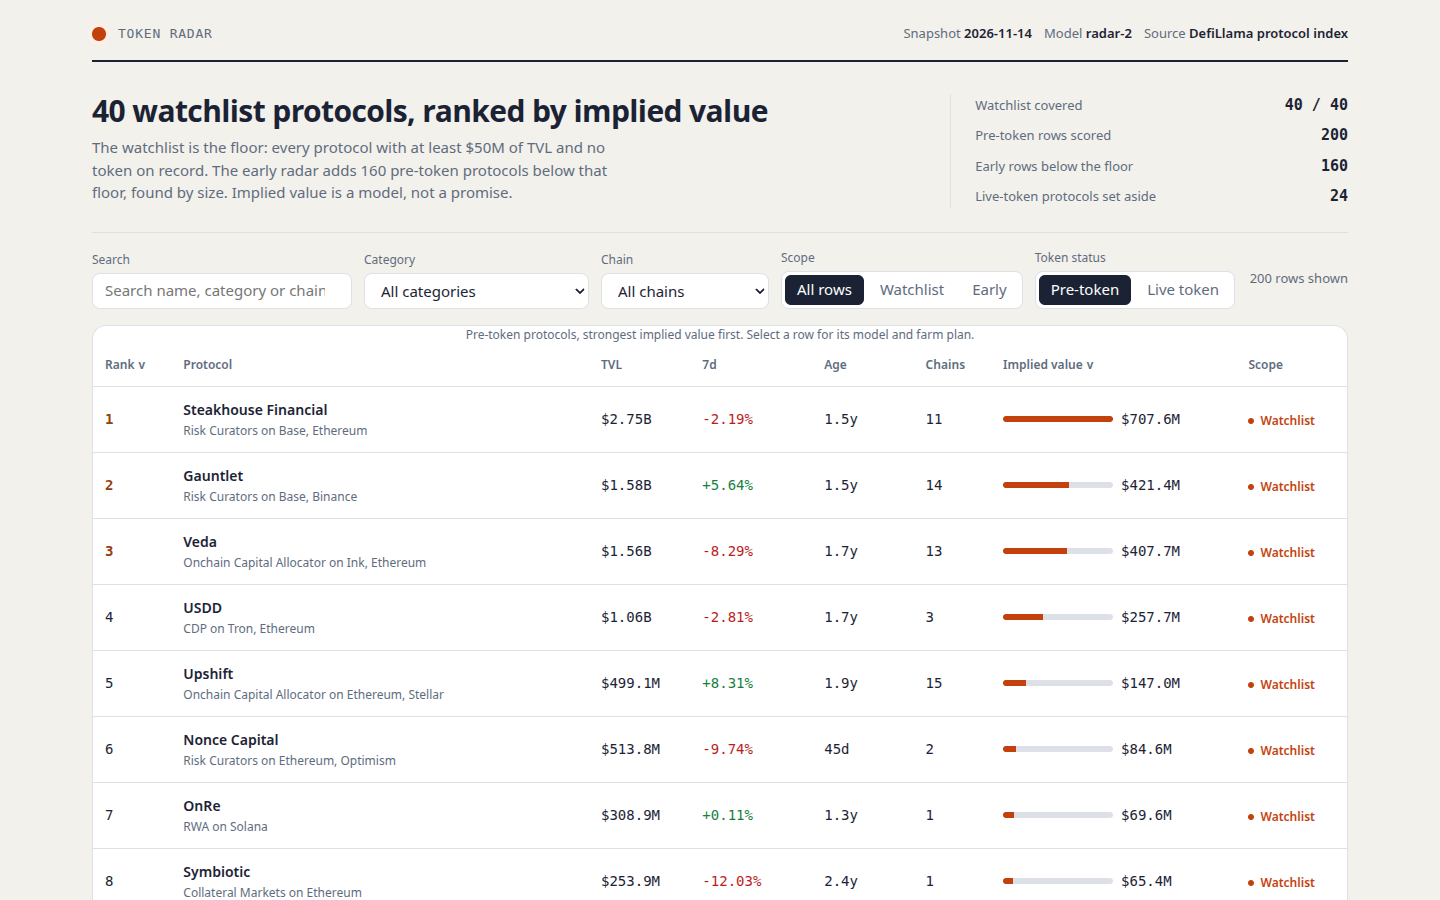
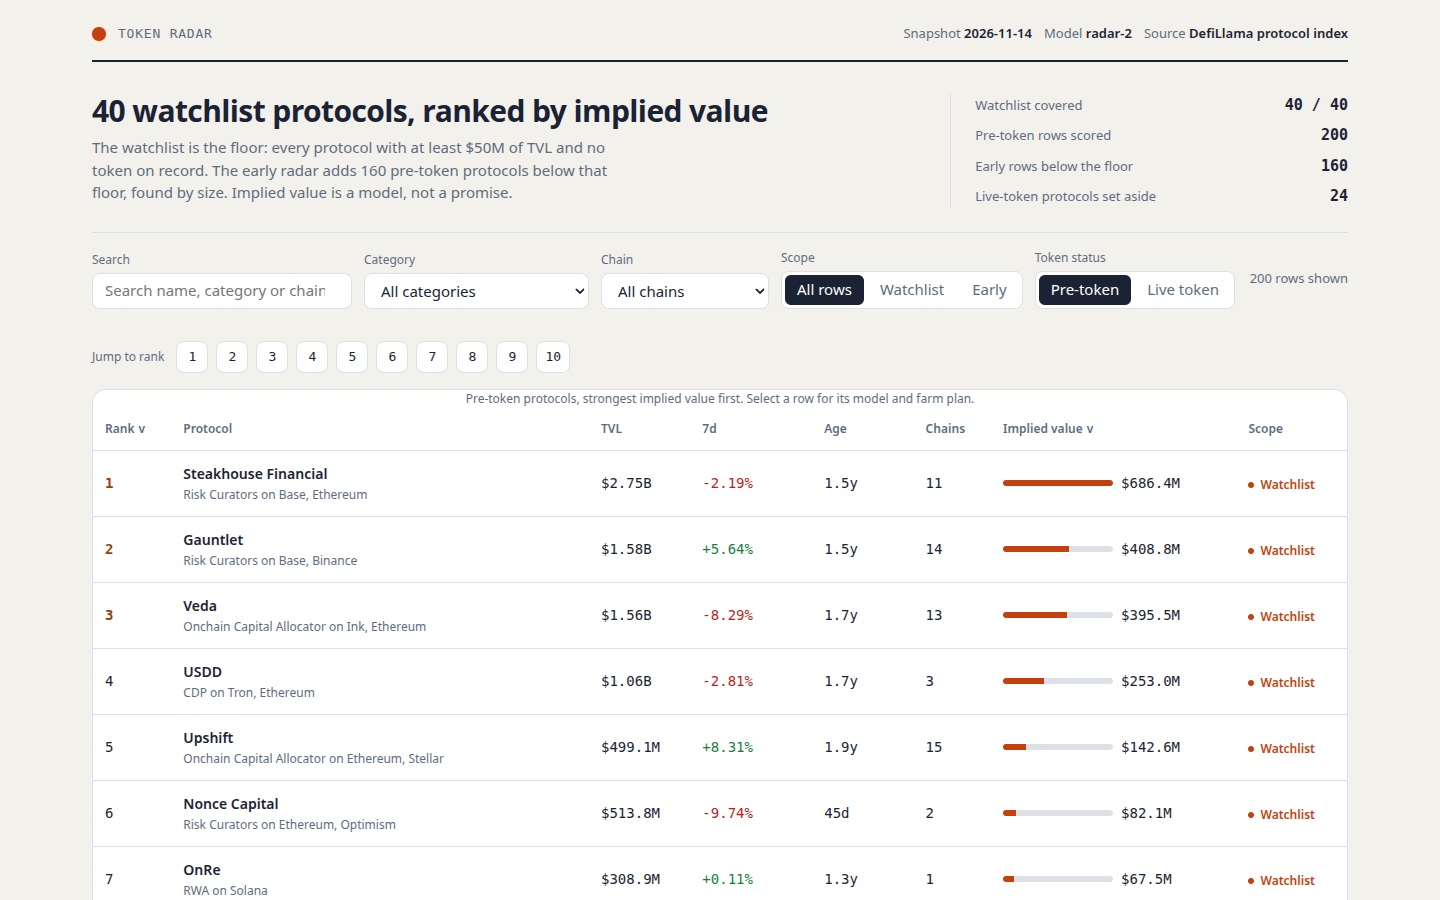
token-radar-01: clean-session rewrite (radar-2 + category concentration, Top-10 jump)
- lib/model.ts: rewritten; adds a category-concentration factor (0.97-1.00,
  0.3% per extra protocol sharing a category, capped at 10) counted over the
  board as chosen; carried as concentration_multiplier in board and data.js
- dashboard/app.js: rewritten; Top-10 quick-jump (buttons 1-10 scroll to and
  flash that rank, clearing filters when the rank is hidden); page recompute
  now includes the concentration factor so detail agrees with board.json
- dashboard/app.css: rewritten; Top-10 jump + row flash styles, same palette
- dashboard/index.html: rewritten; adds the #top10 container app.js uses
- main.ts: rewritten, functionally identical, plus a determinism note
- vendor/makefun-board.ts: rewritten byte-identical (sha256 unchanged)
- screenshots retaken at 1440x900 (board, detail, filtered)

diff --git a/dashboard/app.js b/dashboard/app.js
@@ -31,14 +31,16 @@
 
   // The model in one function: the page recomputes a row from the snapshot figures and
   // checks the number board.json carries, so the page's code and the board's data are
-  // visibly the same arithmetic.
+  // visibly the same arithmetic. The concentration factor rides on the row: the board
+  // counts each category's crowd before it scores, and the page reads that factor back.
   function impliedOf(row, model) {
     var growth = Math.min(model.growth_cap, Math.max(model.growth_floor, row.change_7d === null || row.change_7d === undefined ? 0 : row.change_7d));
     var growthMult = 1 + (growth / 100) * model.growth_weight;
     var age = row.age_days === null || row.age_days === undefined ? model.unknown_age_days : row.age_days;
     var maturity = model.maturity_floor + (Math.min(Math.max(age, 0), model.maturity_days) / model.maturity_days) * model.maturity_range;
     var breadth = 1 + Math.min(Math.max((row.chains || []).length - 1, 0), model.breadth_cap_chains) * model.breadth_per_chain;
-    return Math.max(1, Math.round(row.tvl_usd * model.base_multiple * growthMult * maturity * breadth));
+    var concentration = row.concentration_multiplier === null || row.concentration_multiplier === undefined ? 1 : row.concentration_multiplier;
+    return Math.max(1, Math.round(row.tvl_usd * model.base_multiple * growthMult * maturity * breadth * concentration));
   }
 
   function el(tag, attrs) {
@@ -183,6 +185,41 @@
     });
   }
 
+  // The Top-10 quick jump: one button per board rank, 1 to 10. A jump scrolls that
+  // rank's row into view and flashes it, so the reader can reach the head of the board
+  // from anywhere on the page. When the rank is filtered out of the current view, the
+  // jump clears the filters and the sort first, so the row is there to land on.
+  function jumpToRank(rank) {
+    var found = DATA.rows.filter(function (r) { return r.rank === rank; })[0];
+    if (!found) return;
+    var visible = sortedRows(rows()).some(function (r) { return r.rank === rank; });
+    if (!visible) {
+      state.q = ''; state.category = 'all'; state.chain = 'all'; state.scope = 'all';
+      state.sort = 'implied'; state.dir = -1;
+      writeHash();
+      render();
+    }
+    var tr = document.getElementById('row-' + rank);
+    if (!tr) return;
+    tr.scrollIntoView({ block: 'center' });
+    tr.classList.add('flash');
+    setTimeout(function () { tr.classList.remove('flash'); }, 1600);
+  }
+  function top10Nav(existing) {
+    var nav = existing;
+    if (!nav) nav = el('nav', { id: 'top10', class: 'top10', 'aria-label': 'Jump to a top rank' });
+    nav.className = 'top10';
+    nav.setAttribute('aria-label', 'Jump to a top rank');
+    nav.textContent = '';
+    nav.appendChild(el('span', { class: 'top10-label', text: 'Jump to rank' }));
+    for (var n = 1; n <= 10; n++) {
+      (function (rank) {
+        nav.appendChild(el('button', { type: 'button', class: 'top10-btn', text: String(rank), 'aria-label': 'Jump to rank ' + rank, onclick: function () { jumpToRank(rank); } }));
+      })(n);
+    }
+    return nav;
+  }
+
   function header() {
     return el('header', { class: 'top' },
       el('div', { class: 'brand' }, el('span', { class: 'mark' }), el('span', { class: 'brand-name', text: 'Token Radar' })),
@@ -265,6 +302,7 @@
       var growthClass = r.change_7d === null ? '' : r.change_7d >= 0 ? 'pos' : 'neg';
       var rankClass = r.rank <= 3 ? 'num rank-top' : 'num';
       var tr = el('tr', {
+        id: 'row-' + r.rank,
         'data-selected': state.selected === r.slug ? 'true' : 'false',
         tabindex: '0',
         onclick: function () { openDetail(r.slug); },
@@ -315,7 +353,6 @@
         el('td', null, el('div', { class: 'name' }, el('b', { text: r.name }), el('span', { class: 'sub', text: (r.category || 'Other') + ' on ' + (r.chains && r.chains.length ? r.chains.slice(0, 2).join(', ') : 'an unnamed chain') }))),
         el('td', { class: 'num', text: fmtUsd(r.tvl_usd) }),
         el('td', { class: 'num ' + (r.change_7d !== null && r.change_7d >= 0 ? 'pos' : 'neg'), text: fmtPct(r.change_7d) }),
-        el('td', { class: 'num', text: fmtUsd(r.mcap_usd) }),
         el('td', null, el('span', { class: 'badge live', text: 'Already trades' }))
       ));
     });
@@ -336,13 +373,14 @@
       el('h2', { text: 'How implied value is computed' }),
       el('p', { class: 'sub', text: 'Every row is scored by one function of the snapshot figures. No protocol name is special-cased, and no row is hand-picked.' }),
       el('div', { class: 'formula' },
-        'implied = round( tvl_usd x ' + m.base_multiple + ' x (1 + clamp(change_7d, ' + m.growth_floor + ', ' + m.growth_cap + ') / 100 x ' + m.growth_weight + ') x (' + m.maturity_floor + ' + min(age_days, ' + m.maturity_days + ') / ' + m.maturity_days + ' x ' + m.maturity_range + ') x (1 + min(chains - 1, ' + m.breadth_cap_chains + ') x ' + m.breadth_per_chain + ') )'
+        'implied = round( tvl_usd x ' + m.base_multiple + ' x (1 + clamp(change_7d, ' + m.growth_floor + ', ' + m.growth_cap + ') / 100 x ' + m.growth_weight + ') x (' + m.maturity_floor + ' + min(age_days, ' + m.maturity_days + ') / ' + m.maturity_days + ' x ' + m.maturity_range + ') x (1 + min(chains - 1, ' + m.breadth_cap_chains + ') x ' + m.breadth_per_chain + ') x concentration )'
       ),
       el('dl', null,
         el('div', null, el('dt', { text: 'Size (TVL)' }), el('dd', { text: 'The protocol’s locked value today, times ' + m.base_multiple + '. A bigger protocol is worth more at the same growth and age.' })),
         el('div', null, el('dt', { text: 'Direction (7-day growth)' }), el('dd', { text: 'TVL change over seven days, clamped to ' + m.growth_floor + '% .. +' + m.growth_cap + '%, weighted ' + m.growth_weight + '. A collapsing protocol scores below one holding steady.' })),
         el('div', null, el('dt', { text: 'Patience (age with no token)' }), el('dd', { text: 'Days since first listing, capped at ' + m.maturity_days + ' days. Older protocols have waited longer for a launch; an unlisted age uses ' + m.unknown_age_days + ' days.' })),
-        el('div', null, el('dt', { text: 'Reach (chain breadth)' }), el('dd', { text: 'One chain more than the first adds ' + (m.breadth_per_chain * 100) + '% of value, up to ' + m.breadth_cap_chains + ' extra chains. Wider distribution is worth a little more at the same TVL.' }))
+        el('div', null, el('dt', { text: 'Reach (chain breadth)' }), el('dd', { text: 'One chain more than the first adds ' + (m.breadth_per_chain * 100) + '% of value, up to ' + m.breadth_cap_chains + ' extra chains. Wider distribution is worth a little more at the same TVL.' })),
+        el('div', null, el('dt', { text: 'Crowding (category concentration)' }), el('dd', { text: 'A protocol in a crowded category scores a little lower: each extra protocol sharing its category costs ' + (m.concentration_per_extra * 100) + '% of value, up to ' + m.concentration_cap_extra + ' extra, so the factor runs 0.97 to 1.00. A lone category keeps its full value; a protocol with no category is not crowded.' }))
       ),
       el('p', { class: 'sub', text: 'The early radar is every pre-token protocol below the watchlist floor, by TVL, and the live-token protocols are set aside with their market caps shown.' })
     );
@@ -391,6 +429,7 @@
         el('div', null, el('span', { text: 'Growth multiplier' }), el('b', { class: 'num', text: String(row.growth_multiplier) })),
         el('div', null, el('span', { text: 'Maturity multiplier' }), el('b', { class: 'num', text: String(row.maturity_multiplier) })),
         el('div', null, el('span', { text: 'Breadth multiplier' }), el('b', { class: 'num', text: String(row.breadth_multiplier) })),
+        el('div', null, el('span', { text: 'Concentration multiplier' }), el('b', { class: 'num', text: String(row.concentration_multiplier) })),
         el('div', { class: 'total' }, el('span', { text: 'Implied value' }), el('b', { class: 'num', text: fmtUsd(row.implied_value_usd) }))
       ),
       el('p', { class: 'sub', text: 'Model ' + DATA.model_version + ': the same function scores every protocol. The page recomputes this row as ' + fmtUsd(recomputed) + (recomputed === row.implied_value_usd ? ', the same number board.json carries.' : ', which differs from the board: the data would be stale.') + ' This is an estimate, not a price.' })
@@ -409,12 +448,15 @@
   }
 
   function render() {
+    var top10 = document.getElementById('top10');
     app.textContent = '';
     var shell = el('div', { class: 'shell' });
     shell.appendChild(header());
     shell.appendChild(lede());
     shell.appendChild(controls());
-    shell.appendChild(state.tab === 'pre-token' ? boardTable() : liveTable());
+    var table = state.tab === 'pre-token' ? boardTable() : liveTable();
+    if (state.tab === 'pre-token') shell.appendChild(top10Nav(top10));
+    shell.appendChild(table);
     if (state.tab === 'pre-token') shell.appendChild(modelPanel());
     shell.appendChild(footer());
     app.appendChild(shell);

diff --git a/lib/model.ts b/lib/model.ts
@@ -18,14 +18,20 @@
 //   breadth   = 1 + BREADTH_PER_CHAIN x min(max(chains - 1, 0), BREADTH_CAP_CHAINS)
 //               (how many chains carry its TVL: a protocol live on more chains has a
 //               wider distribution, worth a little more at the same TVL)
-//   implied   = max(1, round(base x growthMul x maturity x breadth))
+//   concentration = 1 - CONCENTRATION_PER_EXTRA x min(max(categoryCount - 1, 0), CONCENTRATION_CAP_EXTRA)
+//               (how crowded its category is on this board: a protocol in a category
+//               ten or more protocols share scores 0.97, a lone category 1.00; a
+//               protocol with no category is not crowded, so it scores 1.00)
+//   implied   = max(1, round(base x growthMul x maturity x breadth x concentration))
 //
-// Why these four signals: TVL is the protocol's size today; seven-day growth is its
+// Why these five signals: TVL is the protocol's size today; seven-day growth is its
 // direction; age with no token is how long the market has waited for a launch; chain
-// breadth is how widely its liquidity is spread. A fast-growing young protocol on one
-// chain scores below a slower, older, multi-chain one at the same TVL, and a protocol
-// whose TVL is collapsing scores below one holding steady — the ranking follows the
-// figures, not a list of names.
+// breadth is how widely its liquidity is spread; category concentration is how much
+// company it keeps — a crowded category means a launch, if it comes, shares its
+// attention with many lookalikes. A fast-growing young protocol on one chain scores
+// below a slower, older, multi-chain one at the same TVL, and a protocol whose TVL is
+// collapsing scores below one holding steady — the ranking follows the figures, not a
+// list of names.
 
 /** The snapshot's protocol entry: exactly the ten fields the sealed input carries. */
 export interface SnapshotProtocol {
@@ -62,6 +68,8 @@ export interface ModelConstants {
   unknown_age_days: number;
   breadth_per_chain: number;
   breadth_cap_chains: number;
+  concentration_per_extra: number;
+  concentration_cap_extra: number;
 }
 
 export const MODEL: ModelConstants = {
@@ -75,6 +83,9 @@ export const MODEL: ModelConstants = {
   unknown_age_days: 365,
   breadth_per_chain: 0.015,
   breadth_cap_chains: 8,
+  // 0.3% per extra protocol sharing the category, capped at 10 extras: the factor runs 0.97 to 1.00.
+  concentration_per_extra: 0.003,
+  concentration_cap_extra: 10,
 };
 
 /** The model's version label: the dashboard names it. */
@@ -115,6 +126,7 @@ export interface BoardRow {
     growth_multiplier: number;
     maturity_multiplier: number;
     breadth_multiplier: number;
+    concentration_multiplier: number;
     age_days: number | null;
   };
   farm_steps: string[];
@@ -136,6 +148,7 @@ export interface RadarRow {
   growth_multiplier: number;
   maturity_multiplier: number;
   breadth_multiplier: number;
+  concentration_multiplier: number;
   on_watchlist: boolean;
 }
 
@@ -194,7 +207,8 @@ export function impliedValue(
   protocol: SnapshotProtocol,
   asOf: string,
   model: ModelConstants,
-): { implied: number; growthPct: number; growthMult: number; maturityMult: number; breadthMult: number; age: number | null } {
+  concentrationMult = 1,
+): { implied: number; growthPct: number; growthMult: number; maturityMult: number; breadthMult: number; concentrationMult: number; age: number | null } {
   const age = ageDays(asOf, protocol.listed_at);
   const rawGrowth = finite(protocol.change_7d, 0);
   const growthPct = Math.min(model.growth_cap, Math.max(model.growth_floor, rawGrowth));
@@ -205,8 +219,8 @@ export function impliedValue(
   const extraChains = Math.min(Math.max(protocol.chains.length - 1, 0), model.breadth_cap_chains);
   const breadthMult = 1 + extraChains * model.breadth_per_chain;
   const base = protocol.tvl_usd * model.base_multiple;
-  const implied = Math.max(1, Math.round(base * growthMult * maturityMult * breadthMult));
-  return { implied, growthPct, growthMult, maturityMult, breadthMult, age };
+  const implied = Math.max(1, Math.round(base * growthMult * maturityMult * breadthMult * concentrationMult));
+  return { implied, growthPct, growthMult, maturityMult, breadthMult, concentrationMult, age };
 }
 
 /** DefiLlama's version-marker rule: a name ending in a release is a pool of another protocol. */
@@ -225,6 +239,33 @@ export function isRankable(p: SnapshotProtocol): boolean {
 /** The snapshot's protocol by slug. */
 function bySlug(protocols: SnapshotProtocol[]): Map<string, SnapshotProtocol> {
   return new Map(protocols.map((p) => [p.slug, p]));
+}
+
+/** How many board protocols share each named category; protocols with no category are not counted. */
+function categoryCounts(protocols: Iterable<SnapshotProtocol>): Map<string, number> {
+  const counts = new Map<string, number>();
+  for (const p of protocols) {
+    if (p.category === null) continue;
+    counts.set(p.category, (counts.get(p.category) ?? 0) + 1);
+  }
+  return counts;
+}
+
+/**
+ * One protocol's concentration factor from its category's crowd on this board: a lone
+ * category keeps 1.00, each extra protocol sharing the category costs
+ * `concentration_per_extra`, capped at `concentration_cap_extra` extras, so the factor
+ * runs 0.97 to 1.00. A protocol with no category is not crowded and keeps 1.00.
+ */
+export function concentrationMultiplier(
+  category: string | null,
+  counts: Map<string, number>,
+  model: ModelConstants,
+): number {
+  if (category === null) return 1;
+  const count = counts.get(category) ?? 1;
+  const extra = Math.min(Math.max(count - 1, 0), model.concentration_cap_extra);
+  return 1 - extra * model.concentration_per_extra;
 }
 
 const round4 = (n: number): number => Math.round(n * 1e4) / 1e4;
@@ -247,8 +288,12 @@ export function buildBoard(snapshot: Snapshot, model: ModelConstants = MODEL): B
     .slice(0, EARLY_ROWS);
   for (const p of early) chosen.set(p.slug, p);
 
+  // The crowd is counted over the board as chosen, before any row is scored, so the
+  // concentration factor is one function of the board itself, never of a name.
+  const counts = categoryCounts(chosen.values());
   const scored = [...chosen.values()].map((p) => {
-    const v = impliedValue(p, snapshot.as_of, model);
+    const concentrationMult = concentrationMultiplier(p.category, counts, model);
+    const v = impliedValue(p, snapshot.as_of, model, concentrationMult);
     return { p, ...v };
   });
   scored.sort((a, b) => b.implied - a.implied || (a.p.slug < b.p.slug ? -1 : a.p.slug > b.p.slug ? 1 : 0));
@@ -273,6 +318,7 @@ export function buildBoard(snapshot: Snapshot, model: ModelConstants = MODEL): B
       growth_multiplier: round4(s.growthMult),
       maturity_multiplier: round4(s.maturityMult),
       breadth_multiplier: round4(s.breadthMult),
+      concentration_multiplier: round4(s.concentrationMult),
       age_days: s.age,
     },
     farm_steps: farmSteps(s.p, s.age).map(stepText),
@@ -451,6 +497,7 @@ export function radarRow(row: BoardRow, onWatchlist: boolean): RadarRow {
     growth_multiplier: row.model.growth_multiplier,
     maturity_multiplier: row.model.maturity_multiplier,
     breadth_multiplier: row.model.breadth_multiplier,
+    concentration_multiplier: row.model.concentration_multiplier,
     on_watchlist: onWatchlist,
   };
 }

diff --git a/dashboard/app.css b/dashboard/app.css
@@ -9,6 +9,7 @@
   --border: #dde1e7;
   --accent: #c2410c;
   --accent-soft: #fdf0e7;
+  --flash: #fde8d3;
   --positive: #15803d;
   --negative: #b91c1c;
   --gold: #92400e;
@@ -81,6 +82,16 @@ a { color: var(--accent); }
 .tabs button[aria-pressed="true"] { background: var(--ink); color: var(--surface); }
 .count { margin-left: auto; color: var(--muted); font-size: 13px; align-self: center; }
 
+/* The Top-10 quick jump: one small button per board rank, 1 to 10, above the table. */
+.top10 { display: flex; flex-wrap: wrap; align-items: center; gap: var(--step-2); margin: var(--step-4) 0; }
+.top10-label { color: var(--muted); font-size: 12px; margin-right: var(--step-1); }
+.top10-btn {
+  min-width: 32px; min-height: 32px; padding: 0 var(--step-2);
+  border: 1px solid var(--border); border-radius: var(--radius-control); background: var(--surface);
+  font-family: var(--font-num); font-size: 13px;
+}
+.top10-btn:hover { border-color: var(--accent); color: var(--accent); }
+
 .panel { background: var(--surface); border: 1px solid var(--border); border-radius: var(--radius-panel); overflow: hidden; }
 .table-wrap { overflow-x: auto; }
 table { width: 100%; border-collapse: collapse; font-size: 14px; }
@@ -91,6 +102,7 @@ th button:hover { color: var(--ink); }
 tbody tr { cursor: pointer; }
 tbody tr:hover { background: var(--accent-soft); }
 tbody tr[data-selected="true"] { background: var(--accent-soft); box-shadow: inset 3px 0 0 var(--accent); }
+tbody tr.flash { background: var(--flash); box-shadow: inset 3px 0 0 var(--accent); }
 .num { font-family: var(--font-num); font-variant-numeric: tabular-nums; white-space: nowrap; }
 .name { display: grid; gap: 2px; }
 .name b { font-weight: 600; }

diff --git a/main.ts b/main.ts
@@ -10,6 +10,8 @@
 //   mkdir -p out && MAKEFUN_OUTPUT_DIR=out node main.ts --input ../input/snapshot.json
 //
 // The run is deterministic: the same snapshot bytes always write the same output bytes.
+// The model's category-concentration factor is counted over the board as chosen, before
+// any row is scored, so it is deterministic too: the same board always scores the same way.
 // Nothing here touches the network, and the dashboard it ships renders with none.
 
 import { copyFileSync, existsSync, mkdirSync, readFileSync, readdirSync, statSync, writeFileSync } from 'node:fs';

diff --git a/dashboard/index.html b/dashboard/index.html
@@ -8,7 +8,9 @@
 </head>
 <body>
 <a class="skip" href="#board">Skip to the board</a>
-<main id="board" tabindex="-1" aria-busy="true"></main>
+<main id="board" tabindex="-1" aria-busy="true">
+<nav id="top10" class="top10" aria-label="Jump to a top rank"></nav>
+</main>
 <script src="../data.js"></script>
 <script src="app.js"></script>
 </body>
